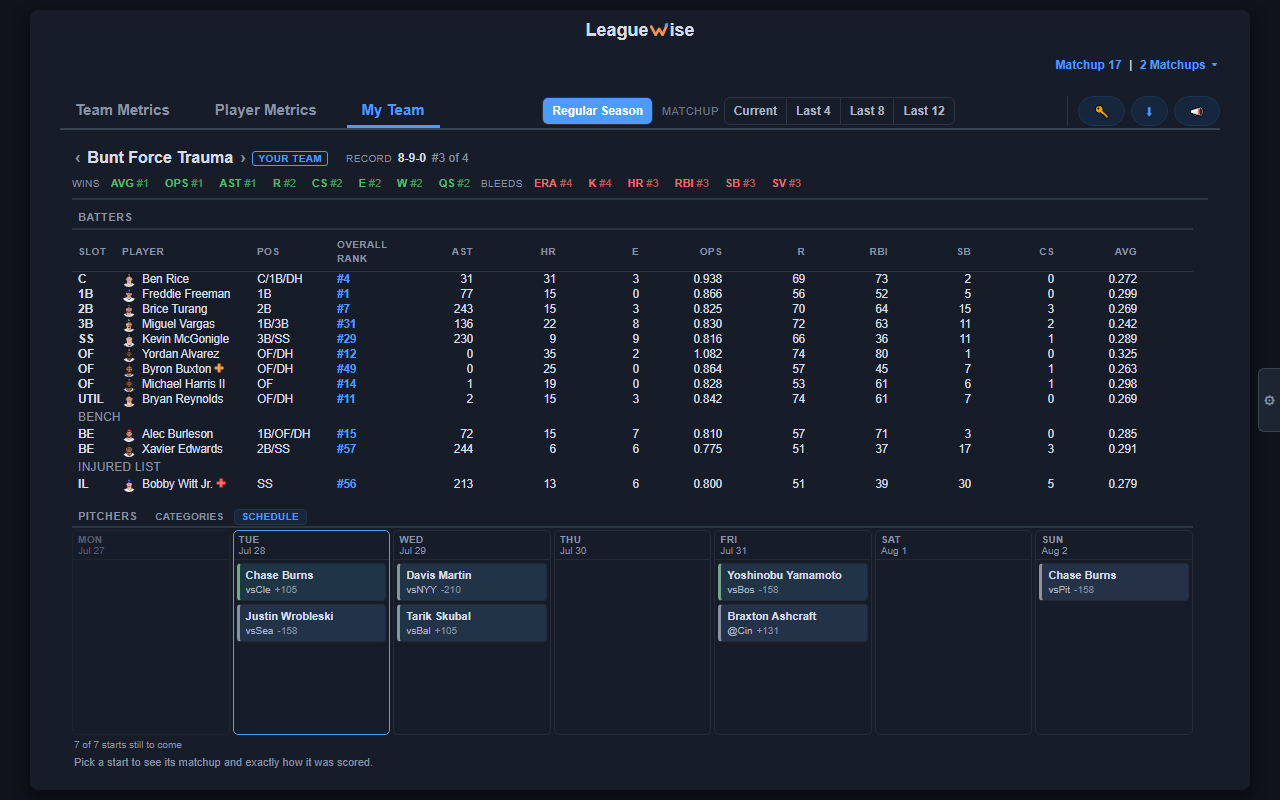
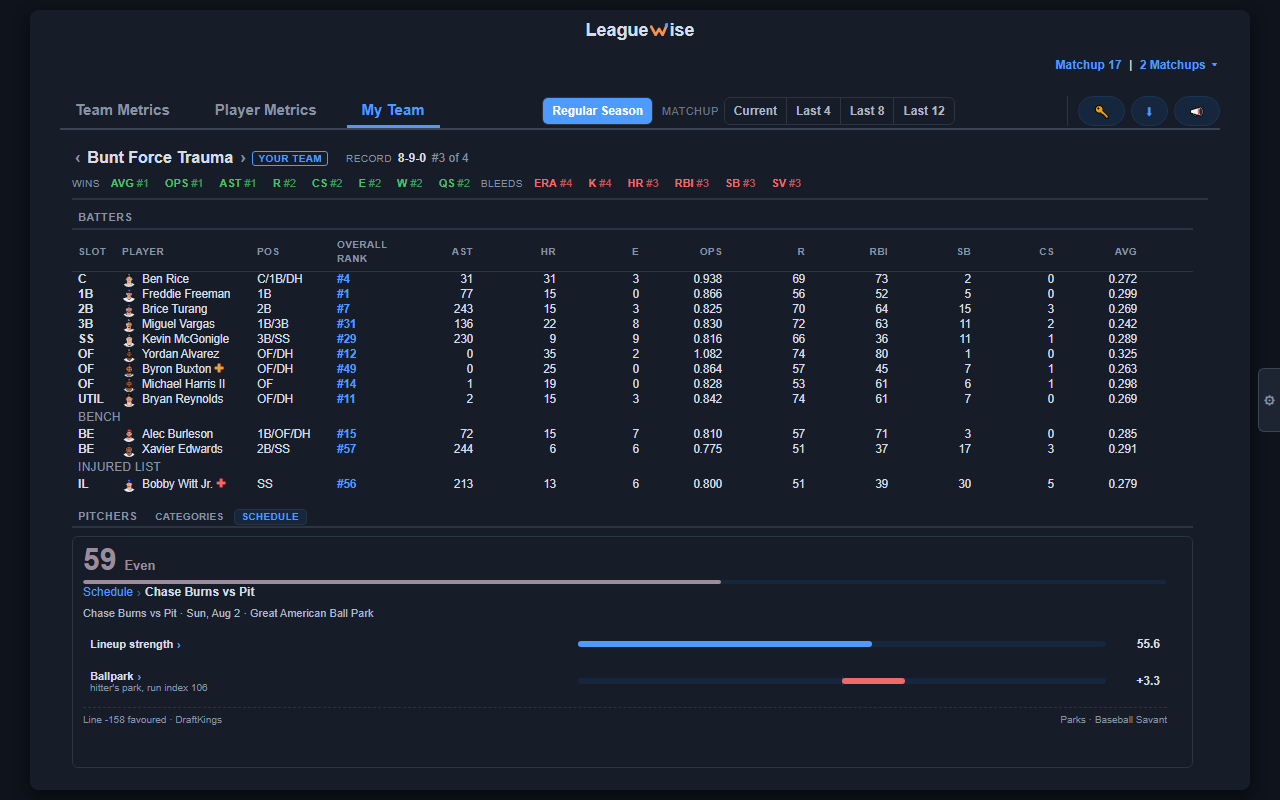
Refresh the screenshots for 1.3.0, and show one day's betting lines rather than a week's
The README still pointed at the 1.2.0 set, so the My Team shot predated the
roster redo and showed a layout the extension no longer has. All four are
recaptured, and the Schedule view is added to the feature list with its own
shot - it is the headline of this release and the README did not mention it
at all.

The store's Schedule shot was wrong in a way worth naming: it showed a
betting line on every start of the week. Odds cover a single day's slate, so
that is not a state any user can see. It came from a test fixture that
stamps odds on 136 events specifically so any card can be exercised. The
shot now comes from one day's games, where exactly one start carries a line,
and shows the opened card rather than the calendar - the verdict, the
lineup and ballpark rows behind it, and the line credited to its book.

No real league, team or member name appears in any image.

diff --git a/README.md b/README.md
@@ -30,17 +30,21 @@ Three tabs, each answering a different question.
 
 - **Team Metrics**, how the league is doing. Standings with playoff shading, season trend lines, per-category rankings, a category heatmap, and live scoreboards for the matchup being played.
 
-<p align="center"><img src="screenshots/1.2.0/team-metrics-1.2.0.png" width="900" alt="Team Metrics tab showing season trend lines, team rankings and the category heatmap"></p>
+<p align="center"><img src="screenshots/1.3.0/team-metrics-1.3.0.png" width="900" alt="Team Metrics tab showing season trend lines, team rankings and the category heatmap"></p>
 
 - **Player Metrics**, who is actually good. Every player in your league ranked in your league's own categories, adjusted for playing time, with search and position filters. Open any player for a weekly trend chart and the arithmetic behind their rank.
 
-<p align="center"><img src="screenshots/1.2.0/player-metrics-1.2.0.png" width="900" alt="Player Metrics tab showing the ranked player leaderboard"></p>
+<p align="center"><img src="screenshots/1.3.0/player-metrics-1.3.0.png" width="900" alt="Player Metrics tab showing the ranked player leaderboard"></p>
 
-<p align="center"><img src="screenshots/1.2.0/player-drill-down-1.2.0.png" width="900" alt="A single player opened, showing headshot, rank against the whole pool and against each position, season stat cards and a weekly trend chart"></p>
+<p align="center"><img src="screenshots/1.3.0/player-drill-down-1.3.0.png" width="900" alt="A single player opened, showing headshot, rank against the whole pool and against each position, season stat cards and a weekly trend chart"></p>
 
 - **My Team**, your roster at a glance. Every player with their rank and category line, grouped by role, sortable by any column.
 
-<p align="center"><img src="screenshots/1.2.0/my-team-1.2.0.png" width="900" alt="My Team tab showing a roster grouped by role with each player's rank and category line"></p>
+<p align="center"><img src="screenshots/1.3.0/my-team-1.3.0.png" width="900" alt="My Team tab showing a roster grouped by role with each player's rank and category line"></p>
+
+  Your pitchers' projected starts also sit on a calendar for the matchup, one card per start. Each carries a difficulty read, and opening one shows the working: how the opposing lineup ranks category by category, and what the ballpark does to run scoring. Betting lines are opt-in and off by default.
+
+<p align="center"><img src="screenshots/1.3.0/schedule-1.3.0.png" width="900" alt="The Schedule view: a week of projected pitching starts on a calendar, each card naming the opponent, with a betting line shown on the one game whose slate has opened"></p>
 
 One timeframe control drives all three. Pick a part of the season and how recent a stretch inside it, so "the last four matchups of the regular season" is one click plus one.
 
